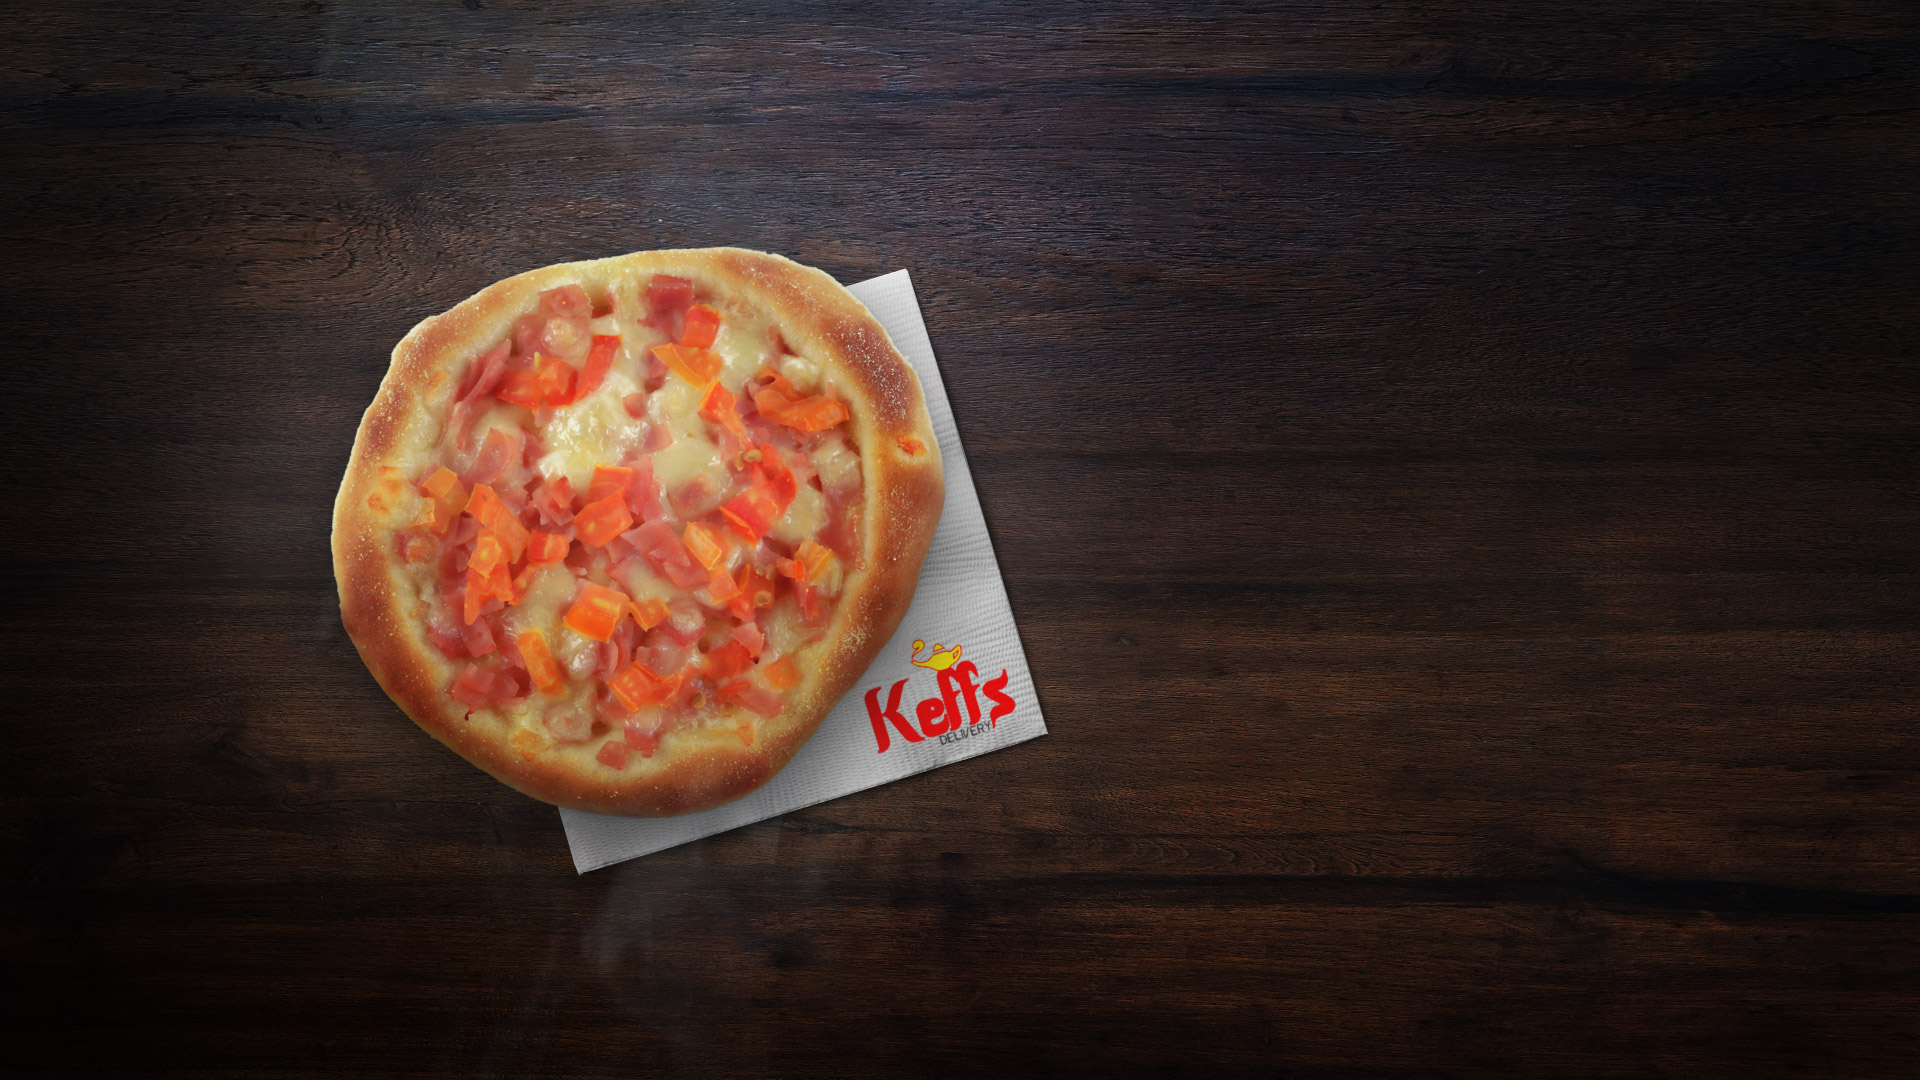
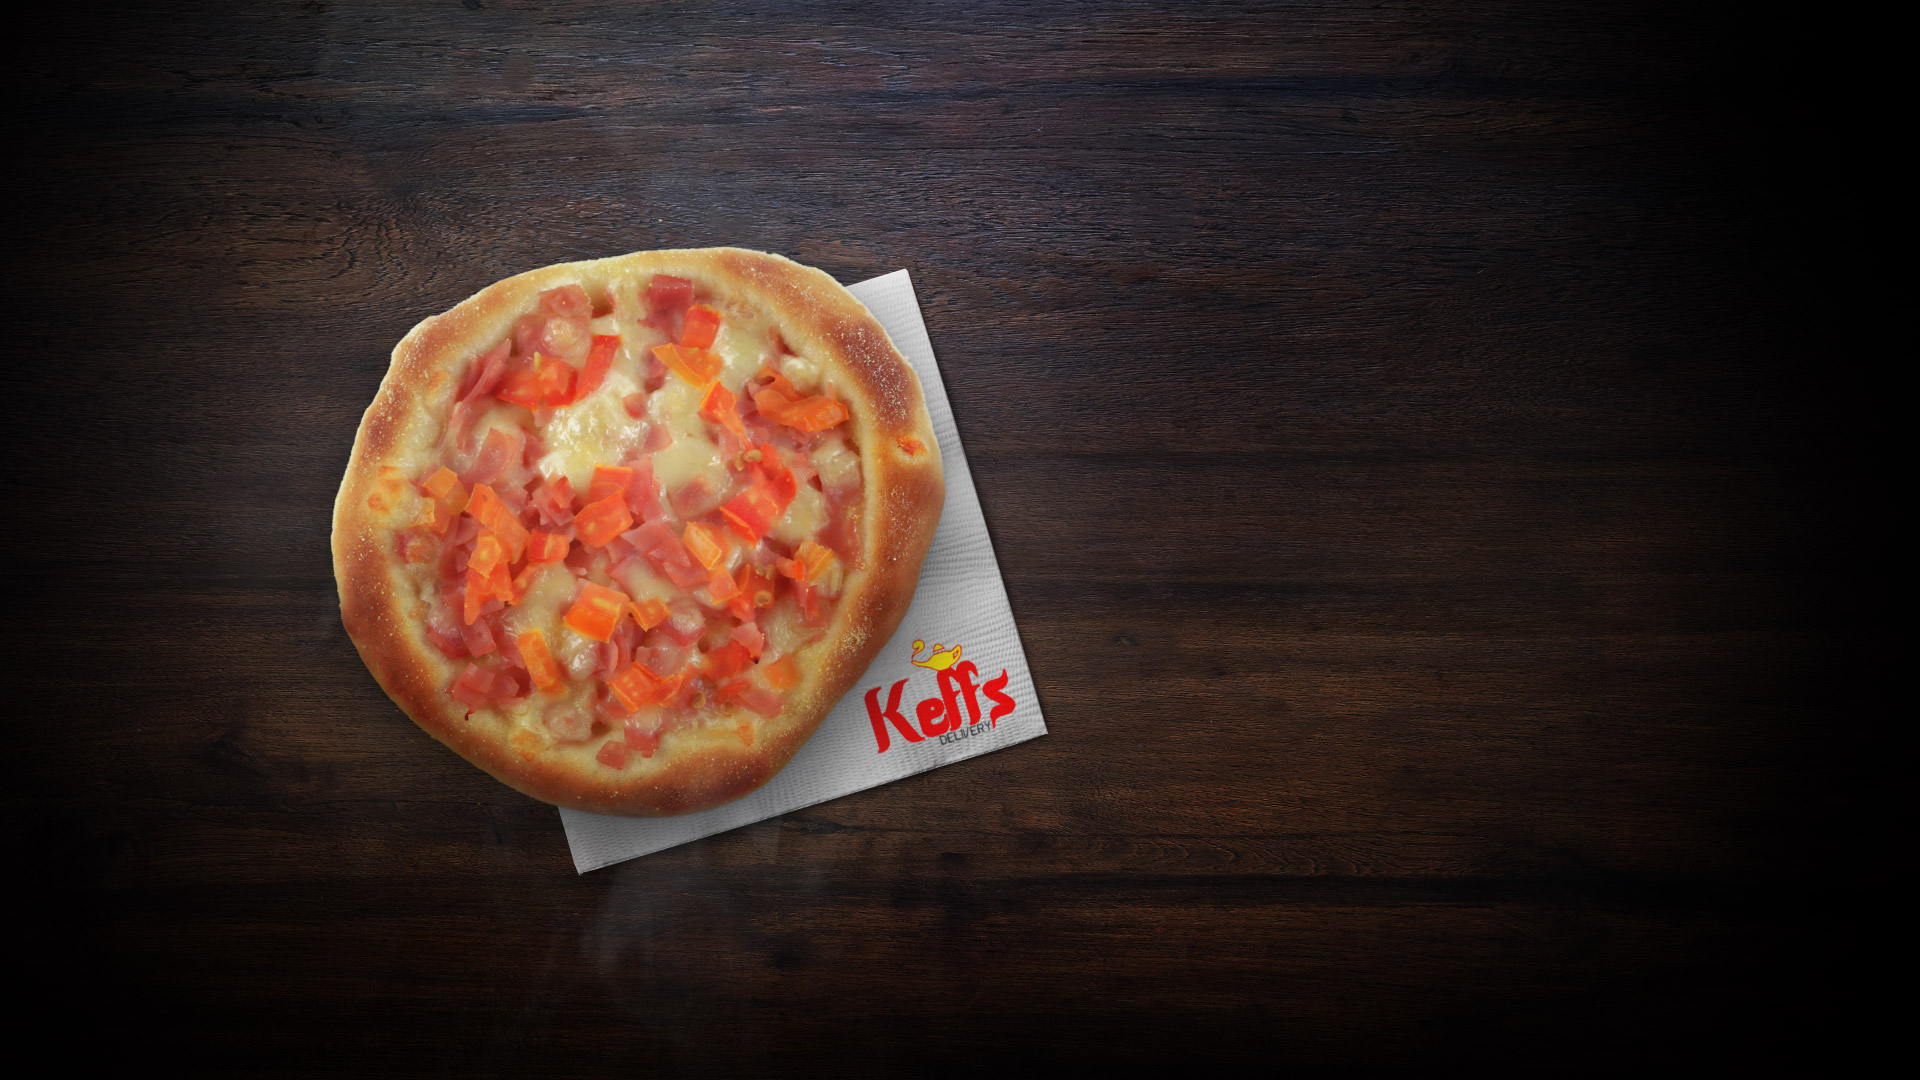
Make it responsive

diff --git a/styles.css b/styles.css
@@ -1,32 +1,58 @@
 html,
 body {
-  margin: 0;
-  padding: 0;
-  width: 100%;
   height: 100%;
+}
+
+body {
+  overflow: hidden;
+  display: flex;
+  align-items: center;
+  justify-content: center;
+  margin: 0;
+  background-color: #000;
   font-family: "Roboto";
 }
 
 .container {
-  width: 100%;
+  overflow: visible;
+  position: relative;
+  flex: 0 1 600px;
+  display: flex;
+  align-items: center;
+  flex-wrap: wrap;
+  height: 400px;
+}
+
+.background {
+  width: 50%;
   height: 100%;
-  background-color: #000;
   background-image: url('img/background-desktop.jpg');
-  background-position: center;
+  background-position: 46.5% 65%;
   background-repeat: no-repeat;
-  background-size: cover;
+  background-size: 1800px 1012.5px;
+}
+.background:before {
+  content: "";
+  position: absolute;
+  top: -398px;
+  left: -698px;
+  width: 10000px;
+  height: 10000px;
+  background-image: url('img/background-desktop.jpg');
+  background-repeat: no-repeat;
+  background-size: 1800px 1012.5px;
+  z-index: -1;
 }
 
 .links {
-  padding: 20px;
-  position: absolute;
-  top: 40%;
-  left: calc(50% + 100px);
+  box-sizing: border-box;
+  padding: 30px;
+  width: 50%;
   text-align: center;
 }
 
 .fomisto {
-  margin: 40px 0;
+  margin: 40px 0 0;
   text-align: center;
 }
 .fomisto a {
@@ -40,11 +66,16 @@ body {
   font-size: 1.2rem;
   font-weight: bold;
   text-decoration: none;
-  /*text-transform: uppercase;*/
 }
 .fomisto a:hover {
+  transform: translate(0, -1px);
   background-color: #EB5E33;
   box-shadow: 0 16px 32px rgba(0, 0, 0, 0.3);
+}
+.fomisto a:active {
+  transform: translate(0, 2px);
+  background-color: #BE3B13;
+  box-shadow: inset 0 8px 32px rgba(0, 0, 0, 0.2);
 }
 .fomisto span {
   color: #FFF;
@@ -69,8 +100,16 @@ body {
 .facebook-icon:hover,
 .twitter-icon:hover,
 .instagram-icon:hover {
+  transform: translate(0, -1px);
   filter: brightness(125%);
   box-shadow: 0 16px 32px rgba(0, 0, 0, 0.3);
+}
+.facebook-icon:active,
+.twitter-icon:active,
+.instagram-icon:active {
+  transform: translate(0, 2px);
+  filter: brightness(90%);
+  box-shadow: inset 0 8px 32px rgba(0, 0, 0, 0.2);
 }
 .facebook-icon {
   background-image: url("/img/facebook.png");

diff --git a/index.html b/index.html
@@ -2,13 +2,15 @@
 <html lang="pt-br">
   <head>
     <meta charset="utf-8">
-    <!-- <meta name="viewport" content="width=device-width, initial-scale=1"> -->
+    <meta name="viewport" content="width=device-width, initial-scale=1; minimum-scale=1.0">
     <title>Keffs Delivery</title>
     <link href="https://fonts.googleapis.com/css?family=Roboto:300|Pacifico:400" rel="stylesheet">
     <link href="/styles.css" rel="stylesheet">
+    <link href="/styles-mobile.css" media="screen and (max-width: 720px) and (orientation: portrait)" rel="stylesheet">
   </head>
   <body>
     <div class="container">
+      <div class="background"></div>
       <div class="links">
         <a class="facebook-icon" href="https://www.facebook.com/keffsdelivery"></a>
         <a class="twitter-icon" href="https://twitter.com/keffsdelivery"></a>

diff --git a/styles-mobile.css b/styles-mobile.css
@@ -1,0 +1,27 @@
+body {
+  overflow: hidden;
+  align-items: flex-start;
+}
+
+.container {
+  flex-basis: 100%;
+}
+
+.background {
+  flex-basis: 100%;
+  padding-top: 100%;
+  height: 0;
+  background-image: url('img/background-mobile.jpg');
+  background-position: center;
+  background-repeat: no-repeat;
+  background-size: 100%;
+}
+.background:before {
+  content: none;
+}
+
+.links {
+  margin-top: -50px;
+  padding: 0 50px;
+  flex-basis: 100%;
+}
